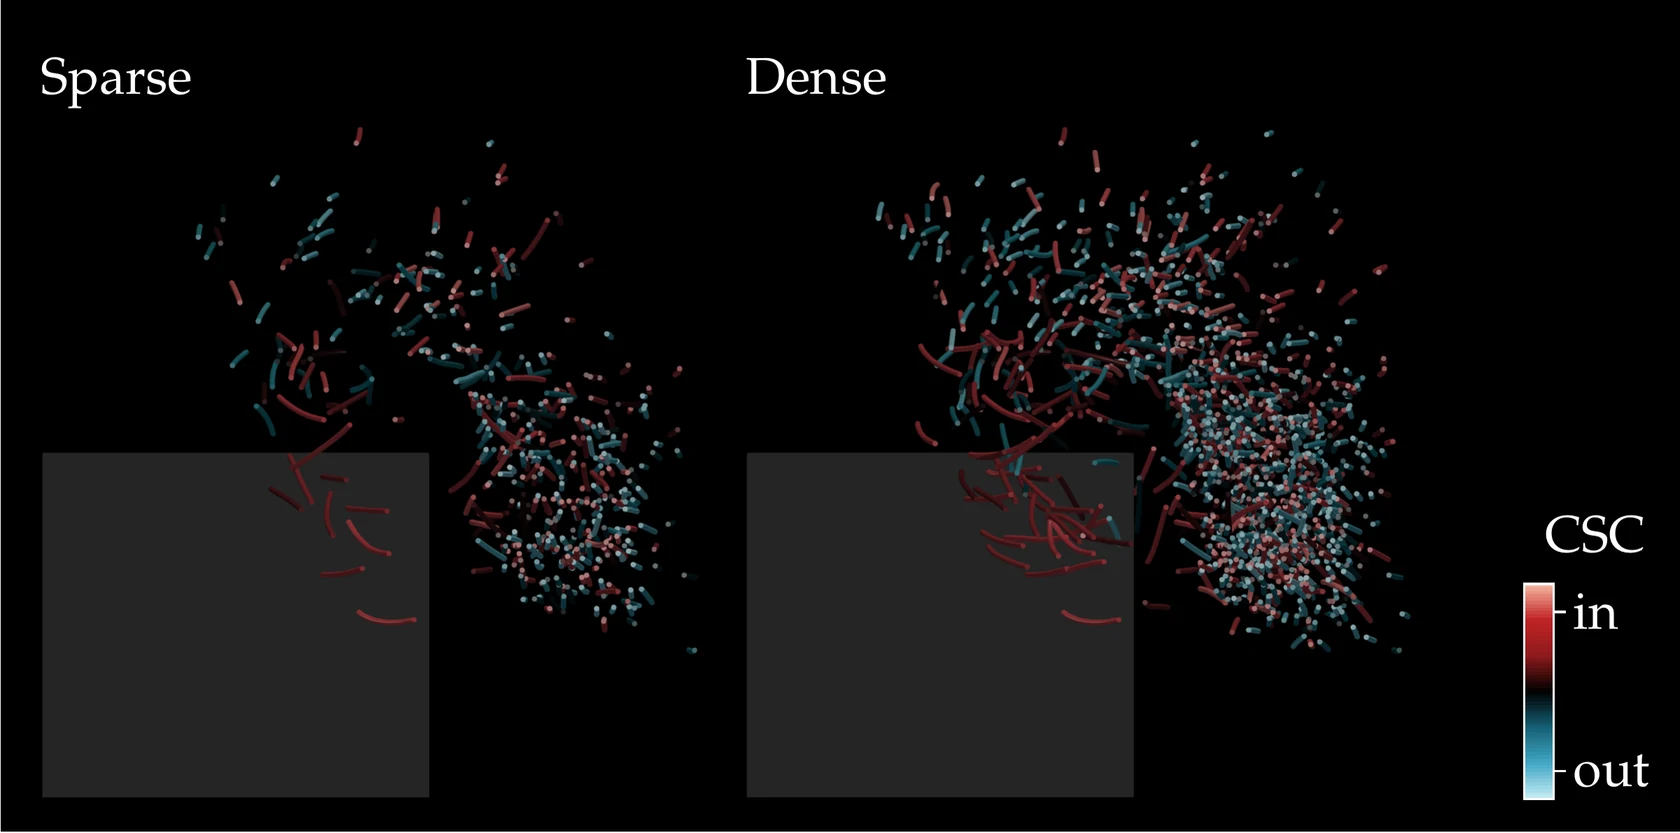
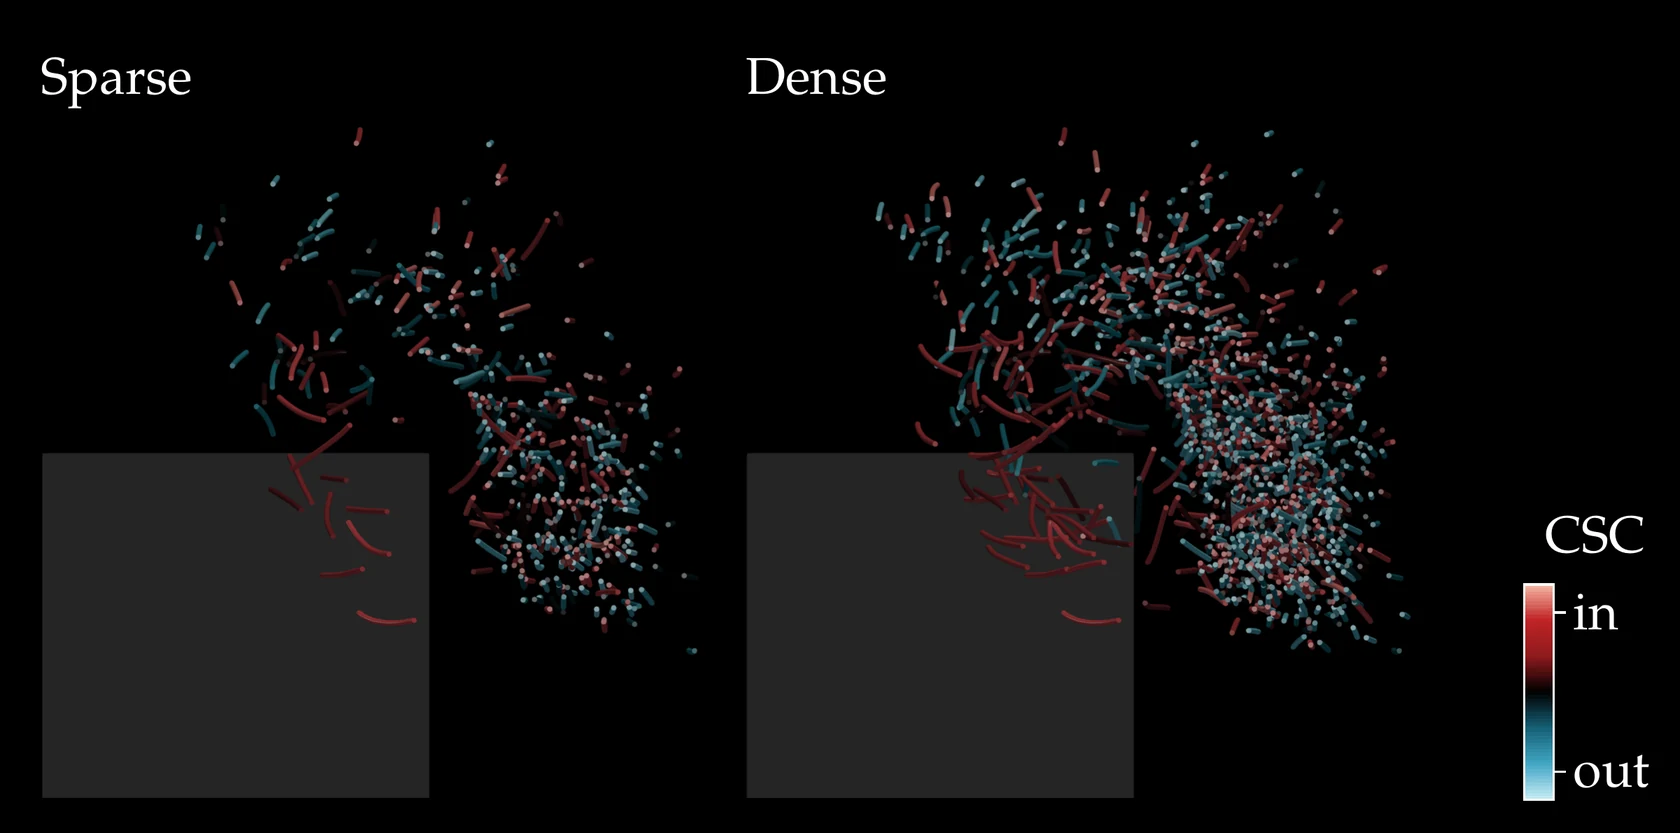
Remove the white edge line from the README figure
pdftoppm rounds the page up to whole pixels and paints the sliver past
the page white. overlay.py now gives the LaTeX page a black background
and keeps only pixels wholly inside the page; the figure is re-made.

diff --git a/scripts/render/overlay.py b/scripts/render/overlay.py
@@ -123,6 +123,8 @@ def compose(panels, stem, bar=None, layout="column", check=True, notes=()):
 \usepackage[T1]{fontenc}
 \usepackage{newpxtext,newpxmath}
 \usepackage{graphicx}
+\usepackage{xcolor}
+\pagecolor{black}%% the rasteriser rounds the page up to whole pixels: keep that sliver black
 \begin{document}
 \begin{tikzpicture}[x=1mm,y=1mm,font=\fontsize{10.95}{13.1}\selectfont]
 \clip (0,0) rectangle (%s,%s);
@@ -137,7 +139,11 @@ def compose(panels, stem, bar=None, layout="column", check=True, notes=()):
             raise RuntimeError(run.stdout[-2000:])
         subprocess.run(["pdftoppm", "-png", "-r", f"{PX_PER_MM * 25.4:.3f}", "-singlefile", f"{name}.pdf", name],
                        cwd=work, check=True)
-        return Image.open(work / f"{name}.png").convert("RGB").resize((W_px, H_px), Image.LANCZOS)
+        img = Image.open(work / f"{name}.png").convert("RGB")
+        # pdftoppm rounds the page up to whole pixels and paints the part past the page white:
+        # keep only pixels that lie wholly inside the page
+        inside = (min(img.width, int(WIDTH_MM * PX_PER_MM)), min(img.height, int(H * PX_PER_MM)))
+        return img.crop((0, 0) + inside).resize((W_px, H_px), Image.LANCZOS)
 
     note_lines = []
     if notes:
